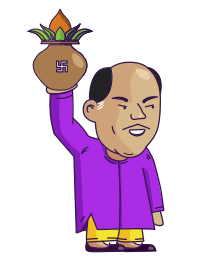
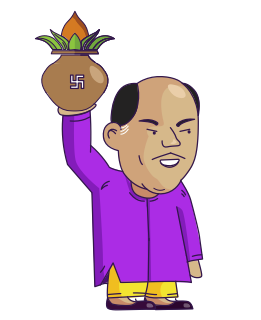
Loaded images

diff --git a/src/states/Arena.js b/src/states/Arena.js
@@ -11,6 +11,10 @@ class Arena extends Phaser.State {
     preload() {
         this.game.load.image('tom', 'assets/final/char-babuji-standing.png');
         this.game.load.image('harry', 'assets/final/char-prem-standing.png');
+
+        this.game.load.image('babuji-loaded', 'assets/final/char-babuji-kalash.png');
+        this.game.load.image('prem-loaded', 'assets/final/char-prem-gun.png');
+
         this.game.load.image('wall', 'assets/final/wall.png');
         this.game.load.image('bg', 'assets/final/bg-fight.png');
         this.game.load.image('projectile', 'assets/final/projectile-bullet.png');
@@ -23,7 +27,7 @@ class Arena extends Phaser.State {
     create() {
         console.log("Create of arena called!");
         var self = this;
-        kapowWrapper.getRoomInfo(function(room) {
+        kapowWrapper.getRoomInfo(function (room) {
             console.log("Room fetched : " + room);
             if (!room) {
                 self.game.state.start("Menu");
@@ -259,6 +263,13 @@ class Arena extends Phaser.State {
         this.firstPlayerWeapon.checkWorldBounds = true;
         this.firstPlayerWeaponTransparent.events.onDragStop.add(this.dragFinished, this, 0, this.firstPlayerWeapon);
         this.firstPlayerWeapon.events.onOutOfBounds.add(this.finishAnimation, this, 0, this.firstPlayerWeapon);
+        if (this.firstPlayerSilhouette.player.name === "Tom") {
+            this.firstPlayerSilhouette.loadTexture('babuji-loaded');
+        } else if (this.firstPlayerSilhouette.player.name === "Harry") {
+            this.firstPlayerSilhouette.loadTexture('prem-loaded');
+        } else {
+            console.log("Neither tom or harry " + this.firstPlayerSilhouette.player.name);
+        }
     }
 
     finishAnimation(weapon) {
@@ -274,6 +285,13 @@ class Arena extends Phaser.State {
         this.secondPlayerWeapon.events.onOutOfBounds.add(this.finishAnimation, this, 0, this.secondPlayerWeapon);
         this.game.physics.enable([this.secondPlayerWeapon], Phaser.Physics.ARCADE);
         this.secondPlayerWeapon.body.allowGravity = false;
+        if (this.firstPlayerSilhouette.player.name === "Tom") {
+            this.firstPlayerSilhouette.loadTexture('tom');
+        } else if (this.firstPlayerSilhouette.player.name === "Harry") {
+            this.firstPlayerSilhouette.loadTexture('harry');
+        } else {
+            console.log("Neither tom or harry " + this.firstPlayerSilhouette.player.name);
+        }
     }
 
     killAllWeapons() {
@@ -290,7 +308,7 @@ class Arena extends Phaser.State {
         let self = this;
         kapowWrapper.getRoomInfo(function (room) {
             self.room = room;
-            if (room.players[0].affiliation == "accepted" && room.players[1].affiliation == "accepted") {
+            if (room.players[0].affiliation === "accepted" && room.players[1].affiliation === "accepted") {
                 if (!room.nextPlayerId) {
                     console.log("No next player set");
                 }
@@ -371,7 +389,7 @@ class Arena extends Phaser.State {
 
     _handleBackButton() {
         console.log("Back button inside arena!");
-        kapow.unloadRoom(function() {
+        kapow.unloadRoom(function () {
             console.log("Unloaded room");
             kapow.close();
         });
